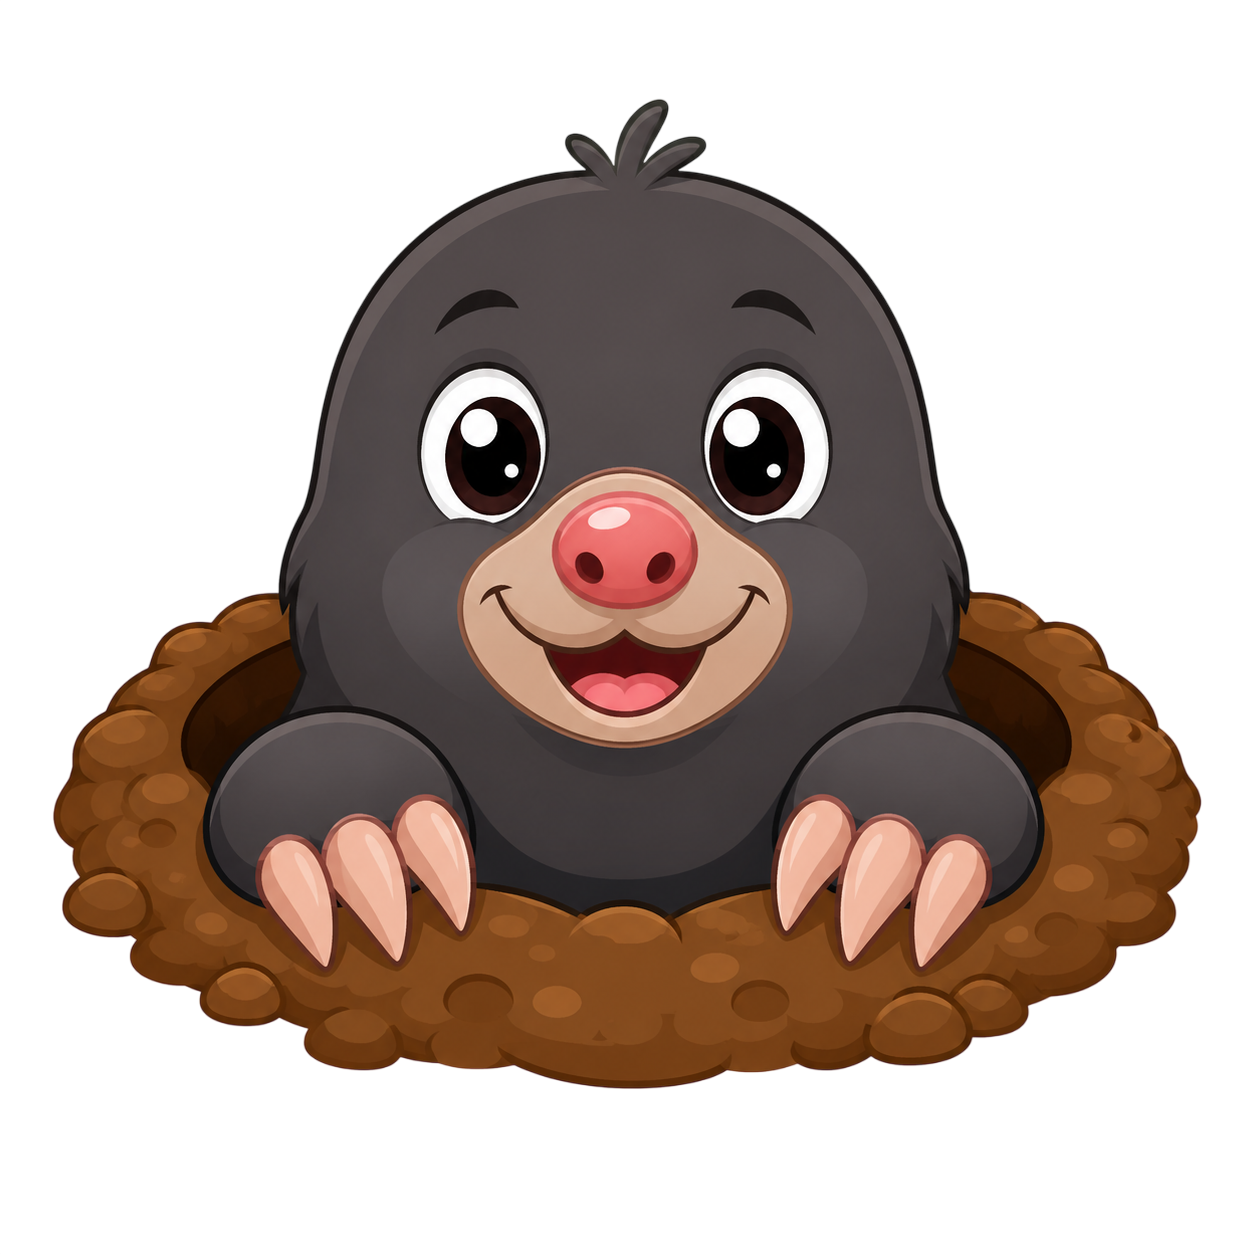
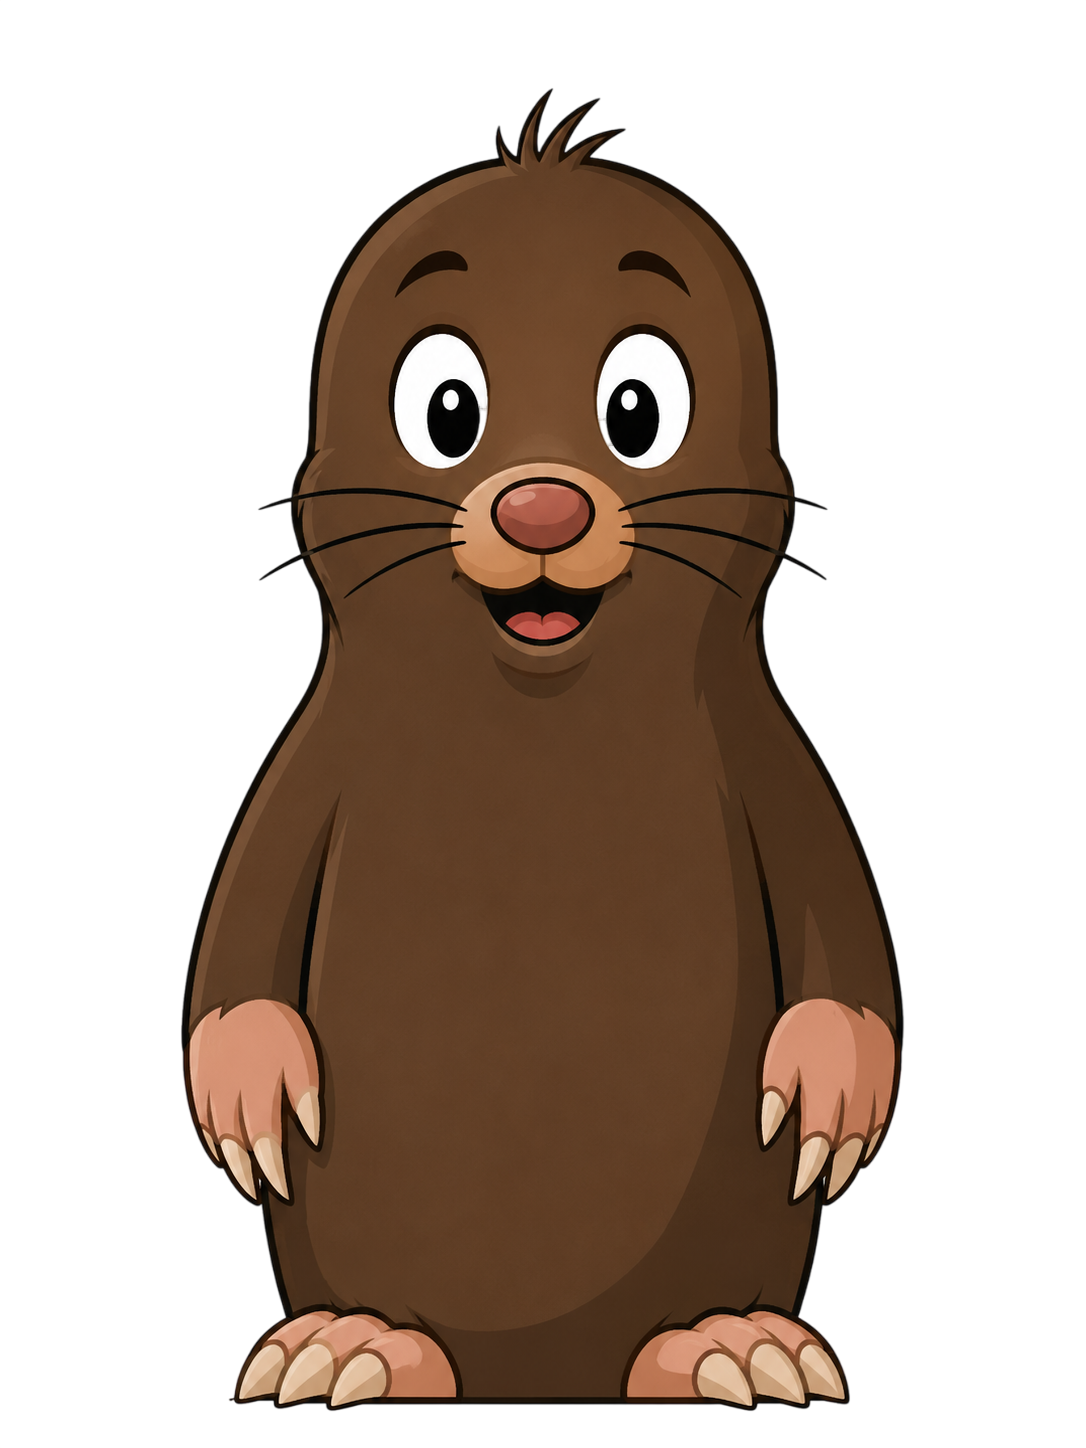
Köstebek giriş-çıkış animasyonları ve yeni assetler eklendi, oyun sahnesi düzenlemeleri yapıldı

diff --git a/src/Mole.cpp b/src/Mole.cpp
@@ -1,42 +1,98 @@
 #include "Mole.h"
+#include <algorithm>
 #include <iostream>
 
+// Köstebeğin texture'larını ve sahnedeki yerleşimini hazırlama
 void Mole::init(SDL_Renderer *renderer, int startX, int startY) {
-    SDL_Surface *rawImage = IMG_Load("../assets/mole.png");
-    if (rawImage != nullptr) {
-        texture = SDL_CreateTextureFromSurface(renderer, rawImage);
-        SDL_FreeSurface(rawImage);
+    const int holeWidth = 184;
+    const int holeHeight = 154;
+    const int holeOffsetX = -9;
+    const int holeOffsetY = 78;
+    const int moleHeight = 160;
+    const int moleOffsetY = -34;
+    int textureWidth = 0;
+    int textureHeight = 0;
+
+    SDL_Surface *surface = IMG_Load("../assets/mole.png");
+    if (surface != nullptr) {
+        textureWidth = surface->w;
+        textureHeight = surface->h;
+        texture = SDL_CreateTextureFromSurface(renderer, surface);
+        SDL_FreeSurface(surface);
     } else {
-        std::cout << "mole.png bulunamadi! Hata: " << IMG_GetError() << std::endl;
+        std::cout << "mole.png yuklenemedi! Hata: " << IMG_GetError() << std::endl;
     }
 
-    moleRectangle.x = startX;
-    moleRectangle.y = startY;
-    moleRectangle.w = 100;
-    moleRectangle.h = 100;
-    
-    isUp = false; 
+    surface = IMG_Load("../assets/whacked-mole.png");
+    if (surface != nullptr) {
+        whackedTexture = SDL_CreateTextureFromSurface(renderer, surface);
+        SDL_FreeSurface(surface);
+    } else {
+        std::cout << "whacked-mole.png yuklenemedi! Hata: " << IMG_GetError() << std::endl;
+    }
+
+    surface = IMG_Load("../assets/hole.png");
+    if (surface != nullptr) {
+        holeTexture = SDL_CreateTextureFromSurface(renderer, surface);
+        SDL_FreeSurface(surface);
+    } else {
+        std::cout << "hole.png yuklenemedi! Hata: " << IMG_GetError() << std::endl;
+    }
+
+    surface = IMG_Load("../assets/hole_front.png");
+    if (surface != nullptr) {
+        holeFrontTexture = SDL_CreateTextureFromSurface(renderer, surface);
+        SDL_FreeSurface(surface);
+    }
+
+    holeRectangle = {startX + holeOffsetX, startY + holeOffsetY, holeWidth, holeHeight};
+
+    moleRectangle.h = moleHeight;
+    if (textureHeight > 0) {
+        moleRectangle.w = (textureWidth * moleRectangle.h) / textureHeight;
+    } else {
+        moleRectangle.w = 106;
+    }
+    moleRectangle.x = holeRectangle.x + (holeRectangle.w - moleRectangle.w) / 2;
+    moleRectangle.y = holeRectangle.y + moleOffsetY;
+
+    hitRectangle = {
+        moleRectangle.x + 4,
+        moleRectangle.y + 6,
+        moleRectangle.w - 8,
+        100
+    };
+
+    state = HIDDEN;
+    isHit = false;
+    stateStartTime = 0;
 }
 
 void Mole::popUp() {
-    if (!isUp) {
-        isUp = true;
-        popUpTime = SDL_GetTicks();
+    if (state == HIDDEN) {
+        state = RISING;
+        isHit = false;
+        stateStartTime = SDL_GetTicks();
     }
 }
 
+// Tıklandığında veya süresi dolduğunda düşüş animasyonuna geçirme
 void Mole::hide() {
-    isUp = false;
+    if (state != HIDDEN) {
+        state = FALLING;
+        stateStartTime = SDL_GetTicks();
+    }
 }
 
 bool Mole::isShowing() {
-    return isUp;
+    return state != HIDDEN;
 }
 
 bool Mole::handleInput(int mouseX, int mouseY) {
-    if (isUp) {
-        SDL_Point mousePoint = { mouseX, mouseY };
-        if (SDL_PointInRect(&mousePoint, &moleRectangle)) {
+    if (state == RISING || state == VISIBLE) {
+        SDL_Point mousePoint = {mouseX, mouseY};
+        if (SDL_PointInRect(&mousePoint, &hitRectangle)) {
+            isHit = true;
             hide();
             return true;
         }
@@ -45,23 +101,97 @@ bool Mole::handleInput(int mouseX, int mouseY) {
 }
 
 void Mole::update() {
-    if (isUp) {
-        if (SDL_GetTicks() - popUpTime > stayUpDuration) {
-            hide();
+    Uint32 now = SDL_GetTicks();
+    Uint32 elapsed = now - stateStartTime;
+
+    // Durumlar arası geçişi zamana göre yapma
+    if (state == RISING && elapsed >= riseDuration) {
+        state = VISIBLE;
+        stateStartTime = now;
+    } else if (state == VISIBLE && elapsed >= stayUpDuration) {
+        isHit = false;
+        state = FALLING;
+        stateStartTime = now;
+    } else if (state == FALLING && elapsed >= fallDuration) {
+        state = HIDDEN;
+    }
+}
+
+// Delik - köstebek - toprak katmanı sırası ile çizim
+void Mole::render(SDL_Renderer *renderer) {
+    float progress = 1;
+    // Animasyon başladığından beri geçen süre
+    Uint32 passedTime = SDL_GetTicks() - stateStartTime;
+    if (state == RISING) {
+        progress = (float)passedTime / riseDuration;
+        if (progress > 1) {
+            progress = 1;
+        }
+    } else if (state == FALLING) {
+        progress = 1 - (float)passedTime / fallDuration;
+        if (progress < 0) {
+            progress = 0;
         }
     }
-}
 
-void Mole::render(SDL_Renderer *renderer) {
-    if (isUp && texture != nullptr) {
-        SDL_RenderCopy(renderer, texture, NULL, &moleRectangle);
+    if (holeTexture != nullptr) {
+        SDL_RenderCopy(renderer, holeTexture, nullptr, &holeRectangle);
+    } else {
+        SDL_SetRenderDrawBlendMode(renderer, SDL_BLENDMODE_BLEND);
+        SDL_SetRenderDrawColor(renderer, 38, 24, 18, 220);
+        SDL_RenderFillRect(renderer, &holeRectangle);
+    }
+
+    if (state == HIDDEN) return;
+
+    SDL_Texture *activeTexture = isHit && whackedTexture != nullptr ? whackedTexture : texture;
+    if (activeTexture == nullptr) return;
+
+    // Köstebeğin başlangıç ve tam görünür olduğu konumlar
+    const int hiddenY = holeRectangle.y + 80;
+    const int visibleY = holeRectangle.y - 10;
+    int moveDistance = hiddenY - visibleY;
+    int currentY = hiddenY - (int)(moveDistance * progress);
+    SDL_Rect destination = {
+        moleRectangle.x,
+        currentY,
+        moleRectangle.w,
+        moleRectangle.h
+    };
+
+    // Alt gövdenin taşmaması için çizim alanını sınırlama
+    SDL_Rect clipRectangle = {
+        holeRectangle.x - 8,
+        holeRectangle.y - 96,
+        holeRectangle.w + 16,
+        182
+    };
+
+    SDL_RenderSetClipRect(renderer, &clipRectangle);
+    SDL_RenderCopy(renderer, activeTexture, nullptr, &destination);
+    SDL_RenderSetClipRect(renderer, nullptr);
+
+    if (holeFrontTexture != nullptr) {
+        SDL_RenderCopy(renderer, holeFrontTexture, nullptr, &holeRectangle);
     }
 }
 
-// Hafızayı temizleme fonksiyonu
+// Texture hafızalarını temizleme
 void Mole::clean() {
     if (texture != nullptr) {
         SDL_DestroyTexture(texture);
         texture = nullptr;
+    }
+    if (whackedTexture != nullptr) {
+        SDL_DestroyTexture(whackedTexture);
+        whackedTexture = nullptr;
+    }
+    if (holeTexture != nullptr) {
+        SDL_DestroyTexture(holeTexture);
+        holeTexture = nullptr;
+    }
+    if (holeFrontTexture != nullptr) {
+        SDL_DestroyTexture(holeFrontTexture);
+        holeFrontTexture = nullptr;
     }
 }

diff --git a/include/Mole.h b/include/Mole.h
@@ -9,8 +9,8 @@ public:
     void init(SDL_Renderer *renderer, int startX, int startY);
     void update();
     void render(SDL_Renderer *renderer);
-    
-    void clean(); 
+
+    void clean();
 
     void popUp();
     void hide();
@@ -18,13 +18,33 @@ public:
     bool handleInput(int mouseX, int mouseY);
 
 private:
-    SDL_Texture *texture = nullptr; 
-    SDL_Rect moleRectangle; 
-    
-    bool isUp = false; 
-    // Zamanlayıcı Değişkenleri
-    Uint32 popUpTime = 0;         // Çıktığı anki saati tutacak kısım
-    Uint32 stayUpDuration = 1000; // Kaç milisaniye dışarıda kalacağını tutan kısım
+    // Köstebeğin ekrandaki animasyon durumları
+    enum AnimationState {
+        HIDDEN,
+        RISING,
+        VISIBLE,
+        FALLING
+    };
+
+    SDL_Texture *texture = nullptr;
+    SDL_Texture *whackedTexture = nullptr;
+    SDL_Texture *holeTexture = nullptr;
+    SDL_Texture *holeFrontTexture = nullptr;
+
+    // Çizim ve tıklama kontrolü için kullanılan alanlar
+    SDL_Rect moleRectangle;
+    SDL_Rect hitRectangle;
+    SDL_Rect holeRectangle;
+
+    // Animasyon zamanlamasını yöneten değişkenler
+    AnimationState state;
+    bool isHit;
+    Uint32 stateStartTime;
+
+    // Animasyon süreleri
+    const Uint32 riseDuration = 180;
+    const Uint32 stayUpDuration = 850;
+    const Uint32 fallDuration = 180;
 };
 
 #endif

diff --git a/include/UIManager.h b/include/UIManager.h
@@ -15,14 +15,14 @@ public:
     void updateScore(SDL_Renderer *renderer, int score);
     void updateTimer(SDL_Renderer *renderer, int timeRemaining);
 
-    // Oyun bittiğinde en yüksek 5 skoru ekrana çizilmek üzere hazırlar
+    // Oyun bittiğinde en yüksek 5 skoru ekrana çizilmek üzere hazırlama
     void prepareLeaderboard(SDL_Renderer *renderer, int finalScore, const std::vector<int>& topScores);
 
     // Çizim fonksiyonları
     void renderMenu(SDL_Renderer *renderer);
     void renderPlaying(SDL_Renderer *renderer);
     void renderGameOver(SDL_Renderer *renderer); 
-    void renderHighScores(SDL_Renderer *renderer); // Skor ekranını çizer
+    void renderHighScores(SDL_Renderer *renderer); // Skor ekranını çizme
 
     // Hafıza temizleme
     void clean();
@@ -59,7 +59,9 @@ private:
     SDL_Rect gameOverRectangle;
 
     // En yüksek 5 skorun ekrandaki resimleri ve yerleri
-    SDL_Texture *highScoreTextures[5] = { nullptr };
+    SDL_Texture *highScoreTextures[5] = { 
+        nullptr 
+    };
     SDL_Rect highScoreRectangles[5];
     SDL_Texture *leaderBoardTitleTexture = nullptr;
     SDL_Rect leaderBoardTitleRectangle;

diff --git a/src/Game.cpp b/src/Game.cpp
@@ -50,13 +50,14 @@ void Game::init(const char *title, int xposition, int yposition, int width, int 
         ui.updateTimer(renderer, timeRemaining);
 
         // 3x3 Izgara
-        int startX = 415;  
-        int startY = 135;  
-        int spacing = 150; 
+        int startX = 340;
+        int startY = 45;
+        int spacingX = 190;
+        int spacingY = 165;
         for (int i = 0; i < 9; i++) {
             int row = i / 3;
             int col = i % 3; 
-            moles[i].init(renderer, startX + (col * spacing), startY + (row * spacing));
+            moles[i].init(renderer, startX + (col * spacingX), startY + (row * spacingY));
         }
 
         srand(static_cast<unsigned int>(time(nullptr))); // Rastgele sayı üretecini başlatma
